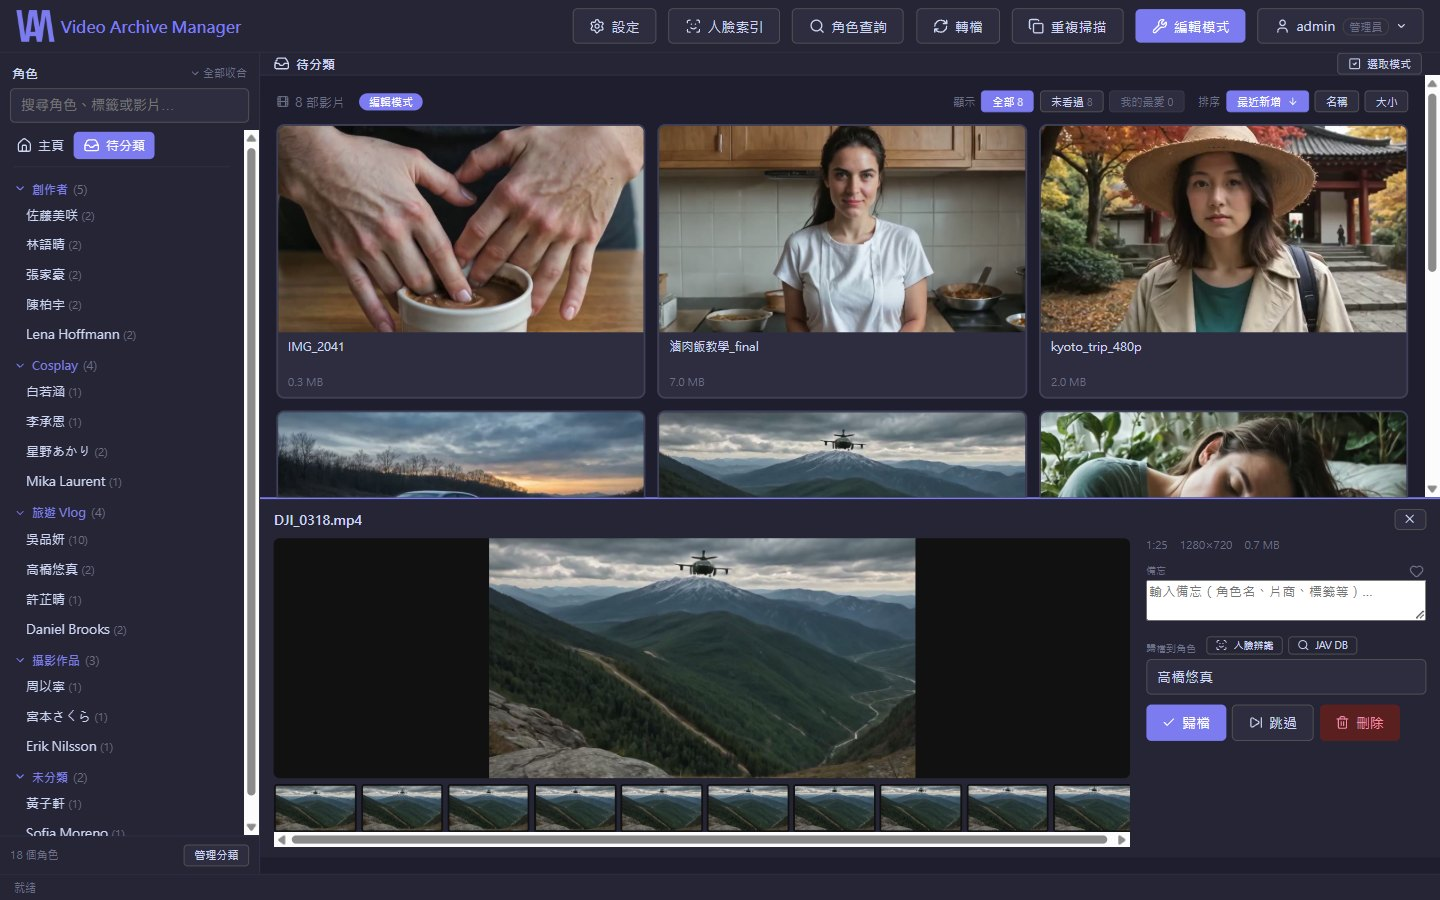
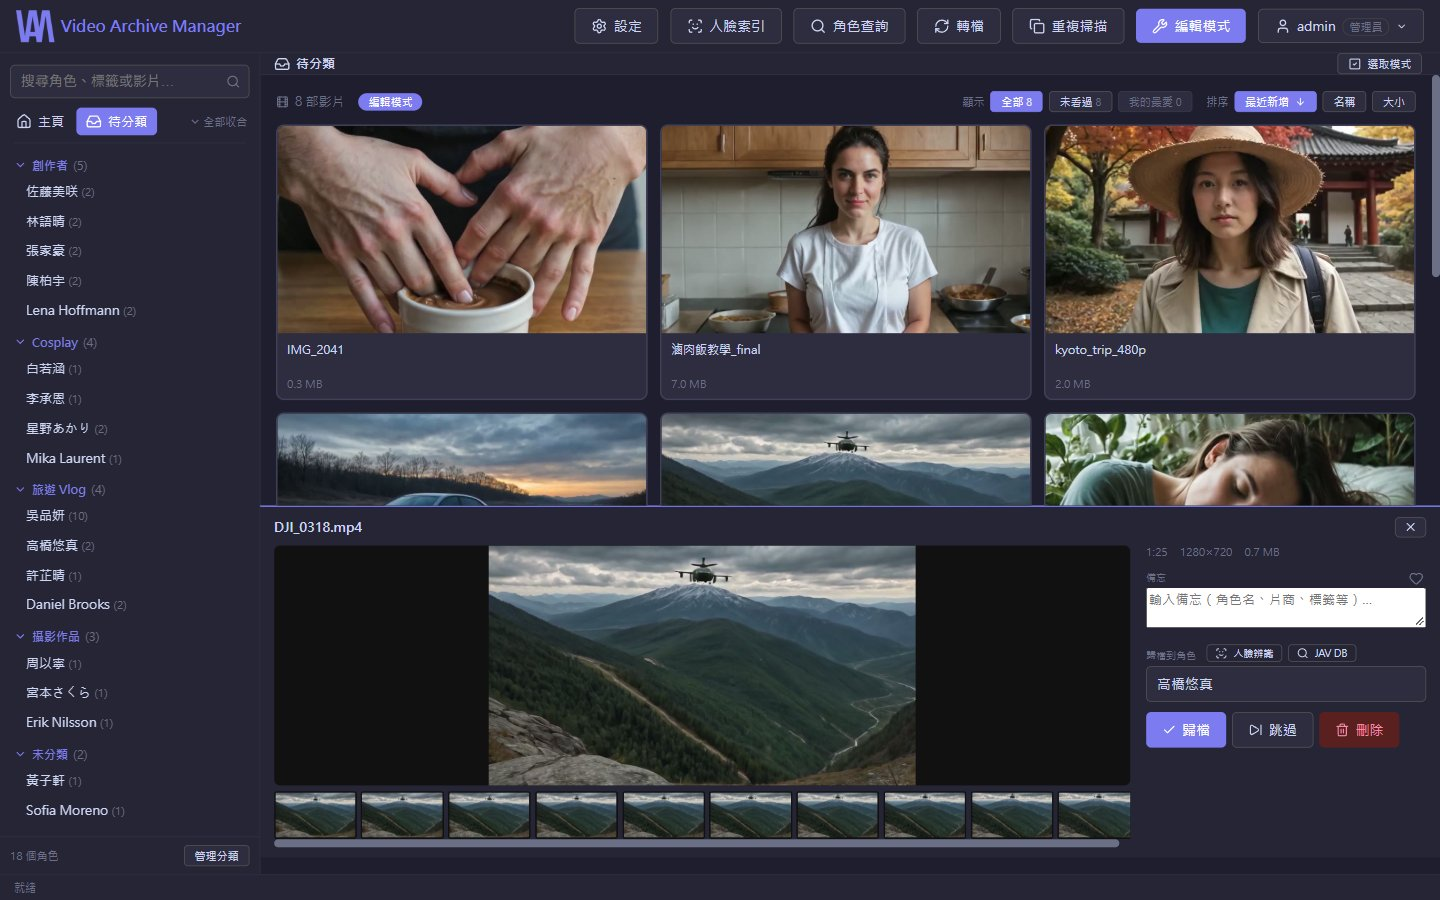
README：截圖重做，簡中與英文版各用自己語言的截圖；重複掃描的位置標籤與英文單複數

diff --git a/frontend/src/components/VideoDupPanel.vue b/frontend/src/components/VideoDupPanel.vue
@@ -379,13 +379,13 @@ async function executeAuto() {
 
         <template v-else>
           <div class="summary">
-            {{ t('發現') }} <b>{{ groups.length }}</b> {{ t('組重複') }}　{{ t('可釋出約') }} <b>{{ fmtSize(totalWaste) }}</b>　｜
-            <span class="t1dot">●</span> Tier 1 <b>{{ tier1.length }}</b> {{ t('組') }}
+            {{ t('發現') }} <b>{{ groups.length }}</b> {{ t('組重複', { n: groups.length }) }}　{{ t('可釋出約') }} <b>{{ fmtSize(totalWaste) }}</b>　｜
+            <span class="t1dot">●</span> Tier 1 <b>{{ tier1.length }}</b> {{ t('組', { n: tier1.length }) }}
             <template v-if="tier2Groups.length">
-              　<span class="t2dot">●</span> {{ t('Tier 2（不同畫質）') }} <b>{{ tier2Groups.length }}</b> {{ t('組') }}
+              　<span class="t2dot">●</span> {{ t('Tier 2（不同畫質）') }} <b>{{ tier2Groups.length }}</b> {{ t('組', { n: tier2Groups.length }) }}
             </template>
-            　{{ t('自動建議') }} <b class="ok">{{ certainN }}</b> {{ t('組') }}
-            　{{ t('需人工確認') }} <b class="warnc">{{ uncertainN }}</b> {{ t('組') }}
+            　{{ t('自動建議') }} <b class="ok">{{ certainN }}</b> {{ t('組', { n: certainN }) }}
+            　{{ t('需人工確認') }} <b class="warnc">{{ uncertainN }}</b> {{ t('組', { n: uncertainN }) }}
           </div>
 
           <div class="legend">
@@ -460,7 +460,7 @@ async function executeAuto() {
 
               <template v-for="f in g.files" :key="f.path">
               <div class="row" :class="rowClass(g, f)">
-                <span class="tag">[{{ f.label }}]</span>
+                <span class="tag">[{{ ts(f.label) }}]</span>
                 <span class="fn" :title="f.path">{{ f.name }}</span>
                 <span class="col" :class="{ best: f.duration > 0 && f.duration === bestDur(g) }">
                   {{ f.duration > 0 && f.duration === bestDur(g) ? '★ ' : '' }}{{ fmtDur(f.duration) }}

diff --git a/frontend/src/components/RelationDupPanel.vue b/frontend/src/components/RelationDupPanel.vue
@@ -22,6 +22,7 @@ import { releaseFile } from '../player'
 import VideoPlayer from './VideoPlayer.vue'
 import Icon from './Icon.vue'
 import { t } from '../i18n'
+import { ts } from '../serverstrings.js'
 
 const groups = ref(null)
 const stored = ref(0)            // relations on record at all
@@ -146,7 +147,7 @@ async function closePlayer() {
           <template v-for="f in g.files" :key="f.path">
             <div class="row" :class="rowClass(g, f)">
               <span class="role" :class="f.role">{{ f.role === 'parent' ? t('原片') : t('被包含') }}</span>
-              <span class="where" :title="f.label">{{ f.label }}</span>
+              <span class="where" :title="ts(f.label)">{{ ts(f.label) }}</span>
               <span class="fn" :title="f.path">{{ f.name }}</span>
               <span class="col">{{ fmtDur(f.duration) }}</span>
               <span class="col">{{ f.width ? `${f.width}×${f.height}` : '?' }}</span>

diff --git a/frontend/src/locales/en.js b/frontend/src/locales/en.js
@@ -50,6 +50,7 @@ export default {
   '語言': 'Language',
   '登出': 'Sign out',
   '待分類': 'Inbox',
+  '歸檔/{name}': 'Archive/{name}',
   '結束選取': 'Done selecting',
   '選取模式': 'Select',
   '本次已歸檔 {n} 部': p => `${plural(p.n, 'video', 'videos')} archived this session`,
@@ -1225,9 +1226,10 @@ export default {
   '停止前尚未發現重複影片': 'No duplicate videos found before it stopped',
   '未發現重複影片': 'No duplicate videos found',
   '發現': 'Found',
-  '組重複': 'duplicate groups',
+  // the count sits just before, in bold, so only the noun is chosen here
+  '組重複': p => (p.n === 1 ? 'duplicate group' : 'duplicate groups'),
   '可釋出約': 'freeing about',
-  '組': 'groups',
+  '組': p => (p.n === 1 ? 'group' : 'groups'),
   'Tier 2（不同畫質）': 'Tier 2 (other quality)',
   '自動建議': 'suggested',
   '需人工確認': 'Needs a check',

diff --git a/frontend/src/serverstrings.js b/frontend/src/serverstrings.js
@@ -51,6 +51,8 @@ export const FIXED = [
   N_('壓縮掃描'), N_('重複掃描'), N_('圖片重複掃描'), N_('人臉索引'), N_('轉檔掃描'),
   N_('含 MP4'), N_('檢查影格時序'), N_('完整解碼檢查'), N_('檢查錄影中斷'),
   N_('全部重新檢查'),
+  // main.py: where a duplicate lives (歸檔/<person> is a template below)
+  N_('待分類'),
 
   // ── error messages (HTTPException details and raised errors) ──
   // auth.py, security.py
@@ -144,6 +146,7 @@ export const TEMPLATES = [
   N_('兩步驟驗證被 {name} 重設'),
   N_('鎖定中（{why}，還有 {n} 秒）'),
   N_('鎖定中（修改密碼，還有 {n} 秒）'),
+  N_('歸檔/{name}'),
   N_('寫入 NFO（{n} 位角色）'),
   N_('匯入 NFO（{n} 位角色）'),
   N_('壓縮 {n} 個檔案'),

diff --git a/frontend/src/components/ImageDupPanel.vue b/frontend/src/components/ImageDupPanel.vue
@@ -321,7 +321,7 @@ onMounted(async () => {
                     <div class="nm" :title="f.path">{{ f.name }}</div>
                     <div class="sm">
                       {{ f.width }}×{{ f.height }} · {{ fmtSize(f.size) }}
-                      <span class="lab">{{ f.label }}</span>
+                      <span class="lab">{{ ts(f.label) }}</span>
                     </div>
                     <!-- what the scan measured, so a wrong call is visible
                          on the card instead of only in the suggestion -->

diff --git a/frontend/src/locales/zh-CN.js b/frontend/src/locales/zh-CN.js
@@ -47,6 +47,7 @@ export default {
   '語言': '语言',
   '登出': '退出登录',
   '待分類': '待分类',
+  '歸檔/{name}': '归档/{name}',
   '結束選取': '结束选择',
   '選取模式': '选择模式',
   '本次已歸檔 {n} 部': '本次已归档 {n} 个',

diff --git a/README.en.md b/README.en.md
@@ -19,9 +19,9 @@ Tested at:
 
 > VAM manages your own files. It **contains and provides no media**.
 >
-> The interface is available in **Traditional Chinese, Simplified Chinese and English**; each account picks its own from the account menu at the top right. The screenshots show the Traditional Chinese interface.
+> The interface is available in **Traditional Chinese, Simplified Chinese and English**; each account picks its own from the account menu at the top right.
 
-<p align="center"><img src="screenshots/home.jpg" alt="Home: people grouped into categories, each category with its own card shape" width="900"></p>
+<p align="center"><img src="screenshots/en/home.jpg" alt="Home: people grouped into categories, each category with its own card shape" width="900"></p>
 
 <sub>Every screenshot on this page comes from a demo library: the people and photos are fictional and AI-generated.</sub>
 
@@ -55,8 +55,8 @@ New downloads land in an **inbox** (待分類) first. Once you have checked them
 
 <table>
   <tr>
-    <td width="50%"><img src="screenshots/character-videos.jpg" alt="A person's videos"></td>
-    <td width="50%"><img src="screenshots/contact-sheet.jpg" alt="Contact sheet"></td>
+    <td width="50%"><img src="screenshots/en/character-videos.jpg" alt="A person's videos"></td>
+    <td width="50%"><img src="screenshots/en/contact-sheet.jpg" alt="Contact sheet"></td>
   </tr>
   <tr>
     <td align="center">A person's videos: covers, watched and favourite marks, filters and sorting</td>
@@ -64,7 +64,7 @@ New downloads land in an **inbox** (待分類) first. Once you have checked them
   </tr>
 </table>
 
-<p align="center"><img src="screenshots/player.jpg" alt="Player: edit the title and notes while watching" width="800"></p>
+<p align="center"><img src="screenshots/en/player.jpg" alt="Player: edit the title and notes while watching" width="800"></p>
 
 ## Photos
 
@@ -74,9 +74,9 @@ New downloads land in an **inbox** (待分類) first. Once you have checked them
 
 <table>
   <tr>
-    <td width="40%"><img src="screenshots/character-profile.jpg" alt="A person's profile and photo wall"></td>
-    <td width="40%"><img src="screenshots/albums.jpg" alt="Albums from subfolders"></td>
-    <td width="20%"><img src="screenshots/mobile.jpg" alt="On a phone"></td>
+    <td width="40%"><img src="screenshots/en/character-profile.jpg" alt="A person's profile and photo wall"></td>
+    <td width="40%"><img src="screenshots/en/albums.jpg" alt="Albums from subfolders"></td>
+    <td width="20%"><img src="screenshots/en/mobile.jpg" alt="On a phone"></td>
   </tr>
   <tr>
     <td align="center">Profile, social links and photo wall</td>
@@ -94,7 +94,7 @@ New downloads land in an **inbox** (待分類) first. Once you have checked them
 - **Managing people**: rename, merge two people's folders, custom tags (usable as filters), social links, profile details, and framing the avatar.
 - **NFO**: reads and writes Kodi / Jellyfin / Emby `.nfo` files. Reading only fills empty fields and never overwrites what you have edited.
 
-<p align="center"><img src="screenshots/archive.jpg" alt="Inbox: click a video to preview it below, pick a person and file it" width="800"></p>
+<p align="center"><img src="screenshots/en/archive.jpg" alt="Inbox: click a video to preview it below, pick a person and file it" width="800"></p>
 
 ---
 
@@ -104,7 +104,7 @@ New downloads land in an **inbox** (待分類) first. Once you have checked them
 - **Images**: finds identical and near-identical photos, including watermarked versions.
 - Scans can be stopped part-way and resume by themselves after a server restart; nothing is deleted before you have confirmed a list.
 
-<p align="center"><img src="screenshots/duplicates.jpg" alt="Duplicate scan: an identical file, and the same video at a lower quality" width="800"></p>
+<p align="center"><img src="screenshots/en/duplicates.jpg" alt="Duplicate scan: an identical file, and the same video at a lower quality" width="800"></p>
 
 ---
 
@@ -127,7 +127,7 @@ Every tool that changes a video **verifies** the result: if verification fails, 
 - **Shrink**: re-encodes to save space, **always to a new file**. You can play the original and the smaller version side by side, in sync, and compare quality before deciding which to keep.
 - **Clip**: select several segments and join them into one video. Pick rough ranges on the contact sheet, then fine-tune in the player. Choose "fast" (snaps to keyframes, no quality loss) or "frame-accurate" (re-encodes).
 
-<p align="center"><img src="screenshots/clip.jpg" alt="Clipping: pick several segments and join them into one video" width="800"></p>
+<p align="center"><img src="screenshots/en/clip.jpg" alt="Clipping: pick several segments and join them into one video" width="800"></p>
 
 ---
 
@@ -154,7 +154,7 @@ Every tool that changes a video **verifies** the result: if verification fails, 
 - **Backups**: the databases are backed up every day to another drive of your choice.
 - **Interface language**: Traditional Chinese, Simplified Chinese or English. Each account chooses its own and the choice is stored with the account, so it follows you to another device; the sign-in page uses whatever this browser used last.
 
-<p align="center"><img src="screenshots/permissions.jpg" alt="Permission groups: tick which features each group can use" width="800"></p>
+<p align="center"><img src="screenshots/en/permissions.jpg" alt="Permission groups: tick which features each group can use" width="800"></p>
 
 ---
 
